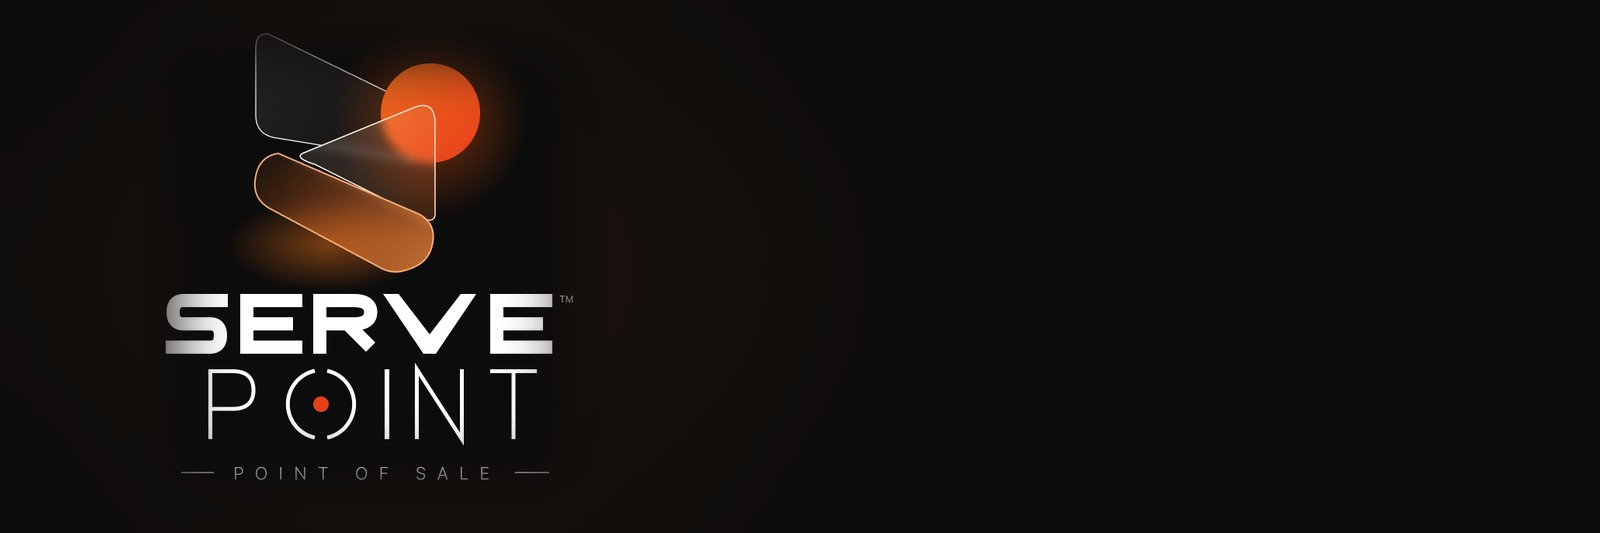
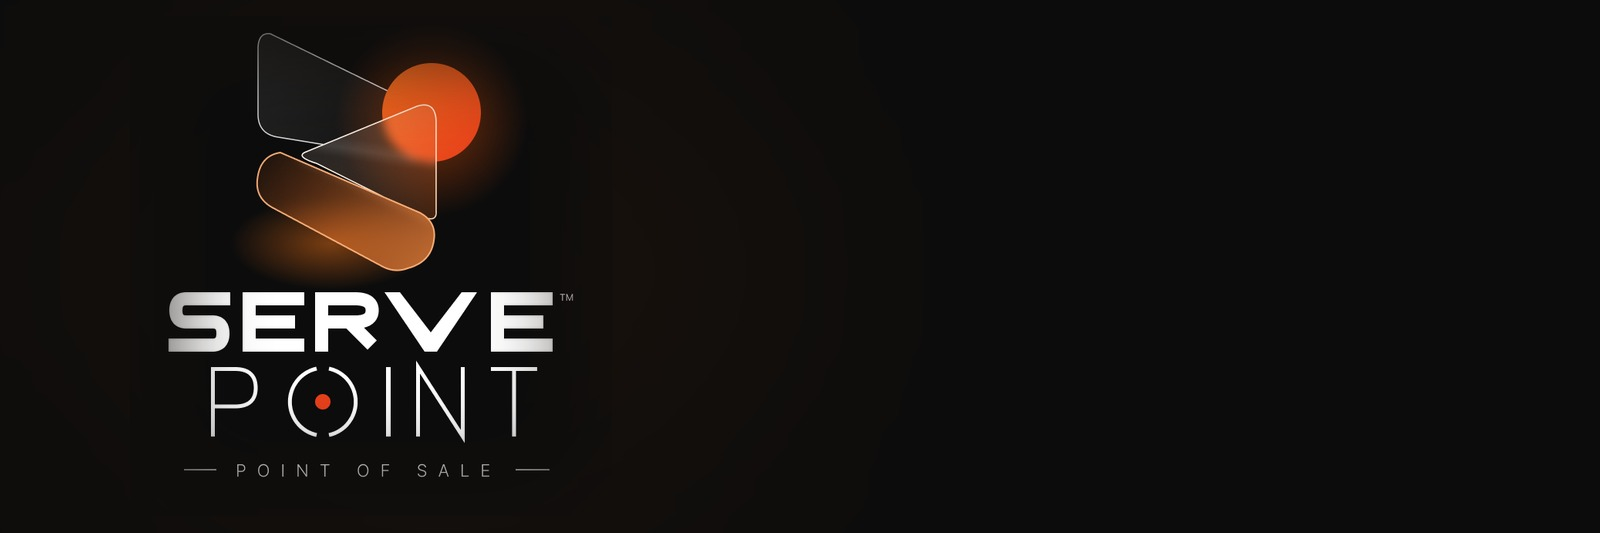
07ce732c-14ae-4898-946f-c5b3f0351066-cron

diff --git a/worklog.md b/worklog.md
@@ -1721,3 +1721,14 @@ Stage Summary:
 - For the parallel round: only brand assets + 6 chip className swaps + ShowcasePage hero import changed. If you touch AuthScreen — DO NOT (ADR-0016). If you re-cut assets, run scripts/brand-extract.py after re-capturing the Figma canvas.
 - Ideas parked (again): Reports "vs prior range" delta chips (designed: priorWindow/priorRangeLabel helpers were written then reverted — re-derive from Task 57 notes), floor capacity heatmap, table sessions per card, per-section Z-report subtotals, reserved-seat CTA live test.
 - Crons: 15-min webDevReview (job 430321).
+---
+Task ID: 57 (addendum — parallel-agent observation)
+Agent: glm-5.3
+Task: post-commit observation
+
+Work Log:
+- Commit d12a982 included TWO files I did not create/modify: src/assets/brand/lockup-stacked-light.png (A, 75908B — appears to be my tool-results/brand/stacked-lockup.png copied under a different name) and src/assets/brand/hero-3d.jpg (M — content replaced, 110677B → 41005B). A parallel agent was working on brand assets concurrently. Both are harmless: hero-3d.jpg is now unreferenced (ShowcasePage imports hero-lockup.jpg); lockup-stacked-light.png is an unused spare. Left in place deliberately — do not revert (may be parallel in-flight work).
+- If the parallel agent is re-branding too: coordinate via this file — the canonical cut assets live in src/assets/brand/ (mark.png, lockup-light.png, hero-lockup.jpg) and regenerate via scripts/brand-extract.py.
+
+Stage Summary:
+- Watch: transient PostgREST media-type error on tenant resolve (once this round, auto-recovered). If it recurs, investigate the tenant RPC/schema-cache before touching code.
